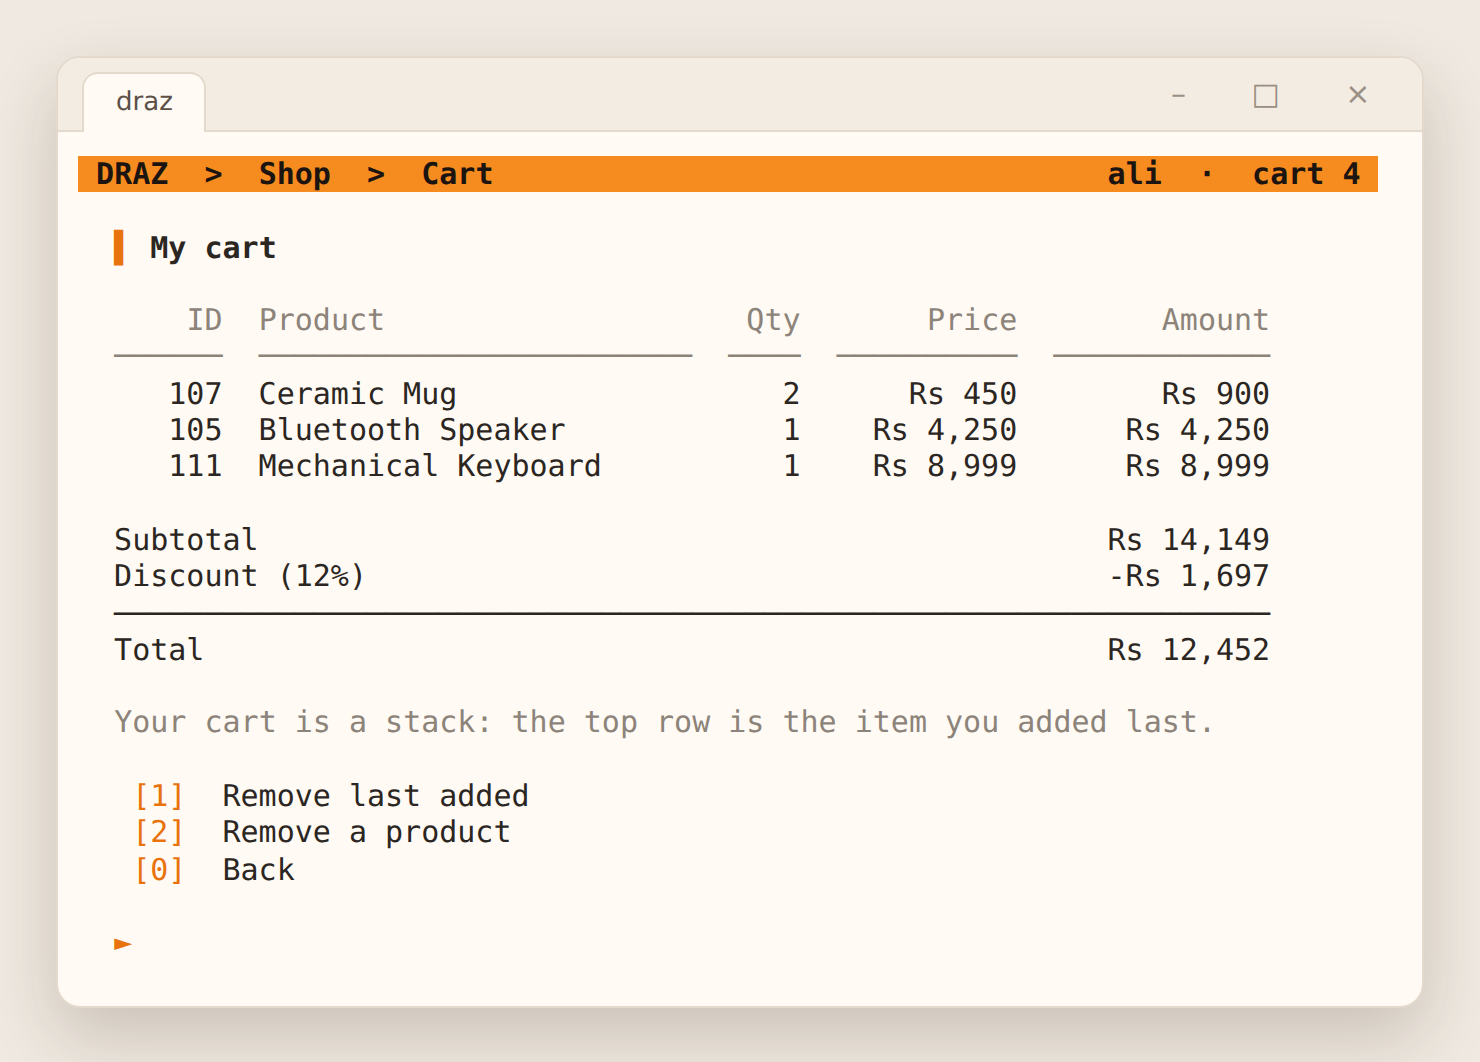
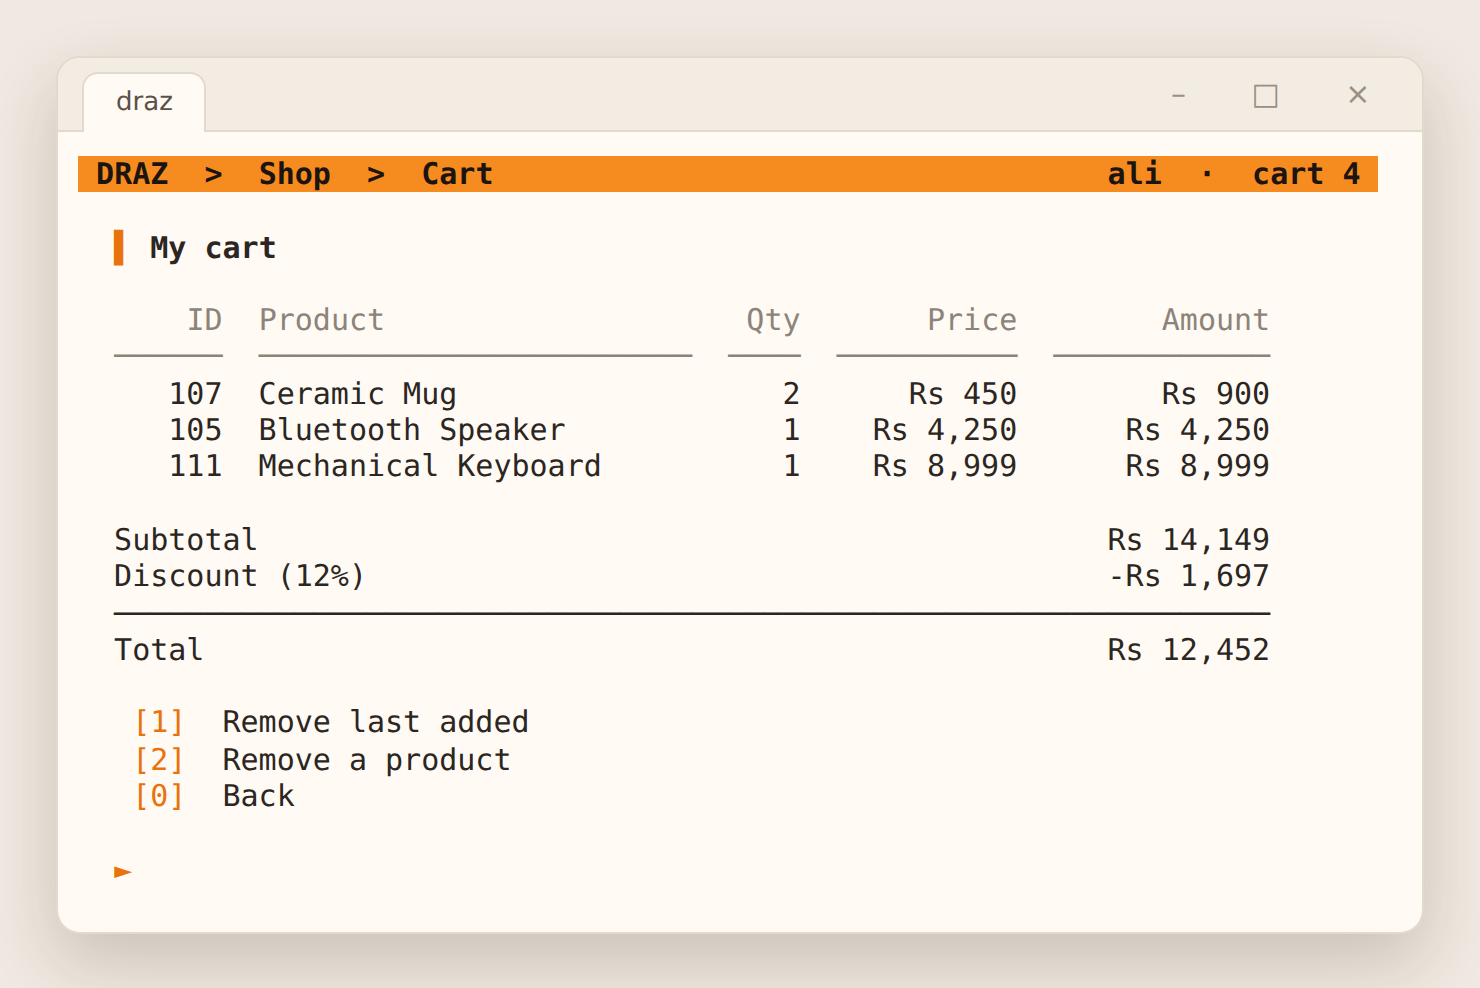
Simplify screen text and update screenshots

diff --git a/src/app.cpp b/src/app.cpp
@@ -208,8 +208,6 @@ void CustomerScreen::viewCart() {
         c::table({{"ID", 6, true}, {"Product", 24}, {"Qty", 4, true}, {"Price", 10, true}, {"Amount", 12, true}}, rows);
         billLines(store_.cartBill(account_), 64);
         std::cout << "\n";
-        c::hint("Your cart is a stack: the top row is the item you added last.");
-        std::cout << "\n";
 
         int choice = c::menu({{1, "Remove last added", ""}, {2, "Remove a product", ""}, {0, "Back", ""}});
         if (choice == 0) return back();
@@ -428,7 +426,7 @@ void AdminScreen::deleteProduct() {
 void AdminScreen::searchProducts() {
     top("Products");
     c::section("Search products");
-    int how = c::menu({{1, "By ID", "binary search tree lookup"}, {2, "By name", ""}, {0, "Back", ""}});
+    int how = c::menu({{1, "By ID", ""}, {2, "By name", ""}, {0, "Back", ""}});
     if (how == 0) return back();
     std::cout << "\n";
     if (how == 1) {
@@ -452,8 +450,6 @@ void AdminScreen::orderQueue() {
         c::note("No orders are waiting.");
         return;
     }
-    c::hint("First in, first out: the top order is processed next.");
-    std::cout << "\n";
     std::vector<std::vector<std::string>> rows;
     int position = 1;
     for (const Order& o : pending) {
@@ -529,13 +525,6 @@ void AdminScreen::stats() {
     row("Orders waiting", std::to_string(s.pendingOrders));
     row("Open complaints", std::to_string(s.openComplaints));
     row("Customers", std::to_string(s.customers));
-    std::cout << "\n";
-    int shortest = 0;
-    while ((std::size_t(1) << shortest) <= s.products) ++shortest;  // ceil(log2(n + 1))
-    row("Product tree height", std::to_string(s.treeHeight) + " levels");
-    c::hint("The shortest possible tree for " + plural(static_cast<long long>(s.products), "product") + " has " +
-            std::to_string(shortest) + " levels.");
-    c::hint("A lookup by ID visits at most one product per level.");
 }
 
 void AdminScreen::resetPassword() {

diff --git a/README.md b/README.md
@@ -21,7 +21,7 @@ It builds and is tested on Windows, Linux and macOS. This is a student project a
 - An order queue: orders are processed in the order they were placed
 - Complaints, newest first, which can be marked resolved
 - Customer list with order counts and amount spent
-- Store stats, including the height of the product tree
+- Store stats: stock, stock value, waiting orders and open complaints
 - Reset a customer's forgotten password
 
 ## DSA and OOP design
@@ -32,7 +32,7 @@ Every data structure lives in [`include/draz/ds/`](include/draz/ds) as a reusabl
   - Finding, adding and removing a product follows one path from the root, instead of scanning the whole list.
   - Deleting a node with two children moves up its in-order successor.
   - An in-order traversal lists products sorted by ID.
-  - Products are saved in ID order, which would build a long chain. So after loading, the tree is rebuilt balanced, middle key first, and the stats screen shows the height.
+  - Products are saved in ID order, which would build a long chain. So after loading, the tree is rebuilt balanced, middle key first.
 - **Stack** (`stack.h`): each customer's cart.
   - "Remove last added" is a pop.
   - Complaints are also kept on a stack, so the newest one is shown first.
@@ -132,9 +132,9 @@ GitHub Actions runs them on Windows, Linux and macOS on every push.
 
 ![Order queue](docs/screenshots/05-order-queue.png)
 
-**Store stats with the product tree height**
+**Products sorted by price**
 
-![Store stats](docs/screenshots/06-stats.png)
+![Sort by price](docs/screenshots/06-sort-by-price.png)
 
 ## Project structure
 
